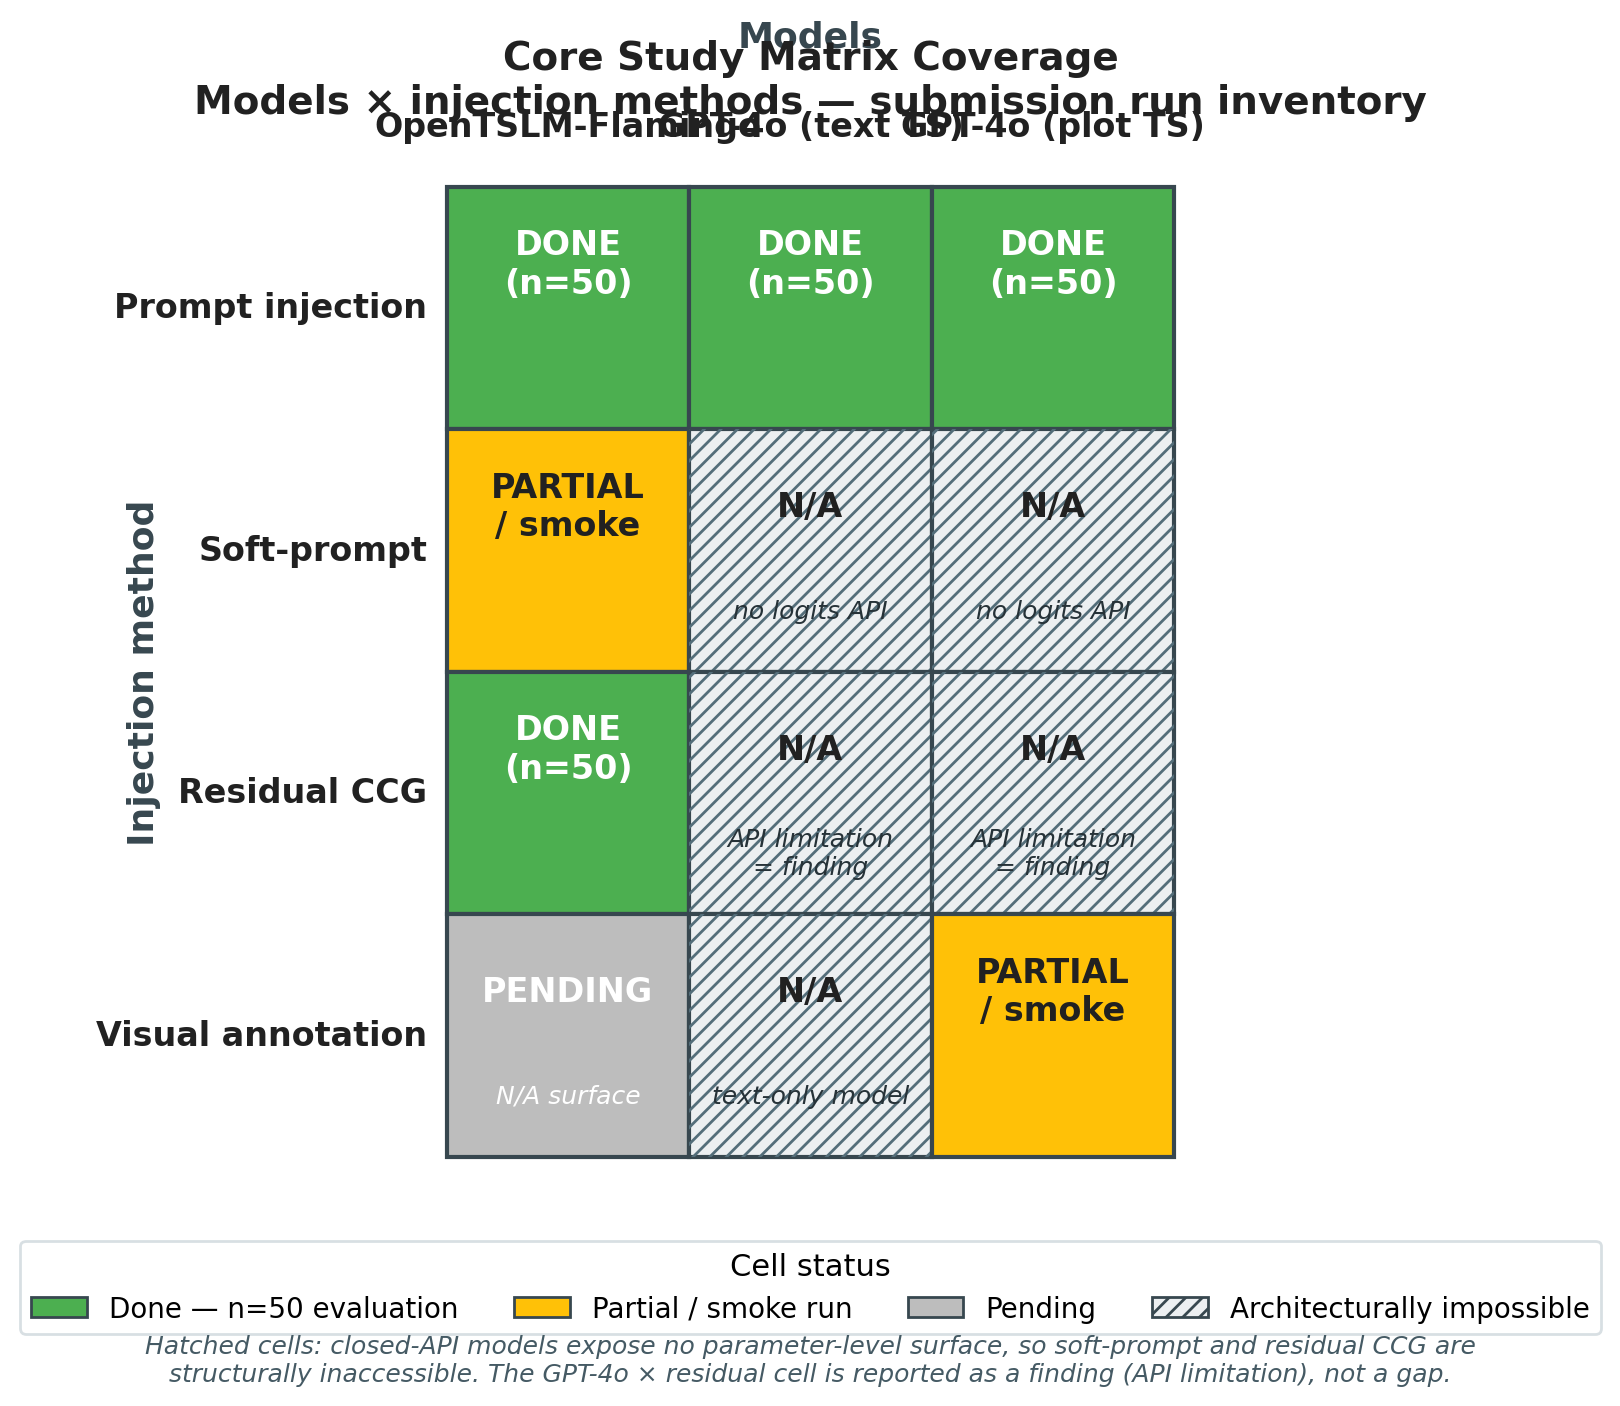
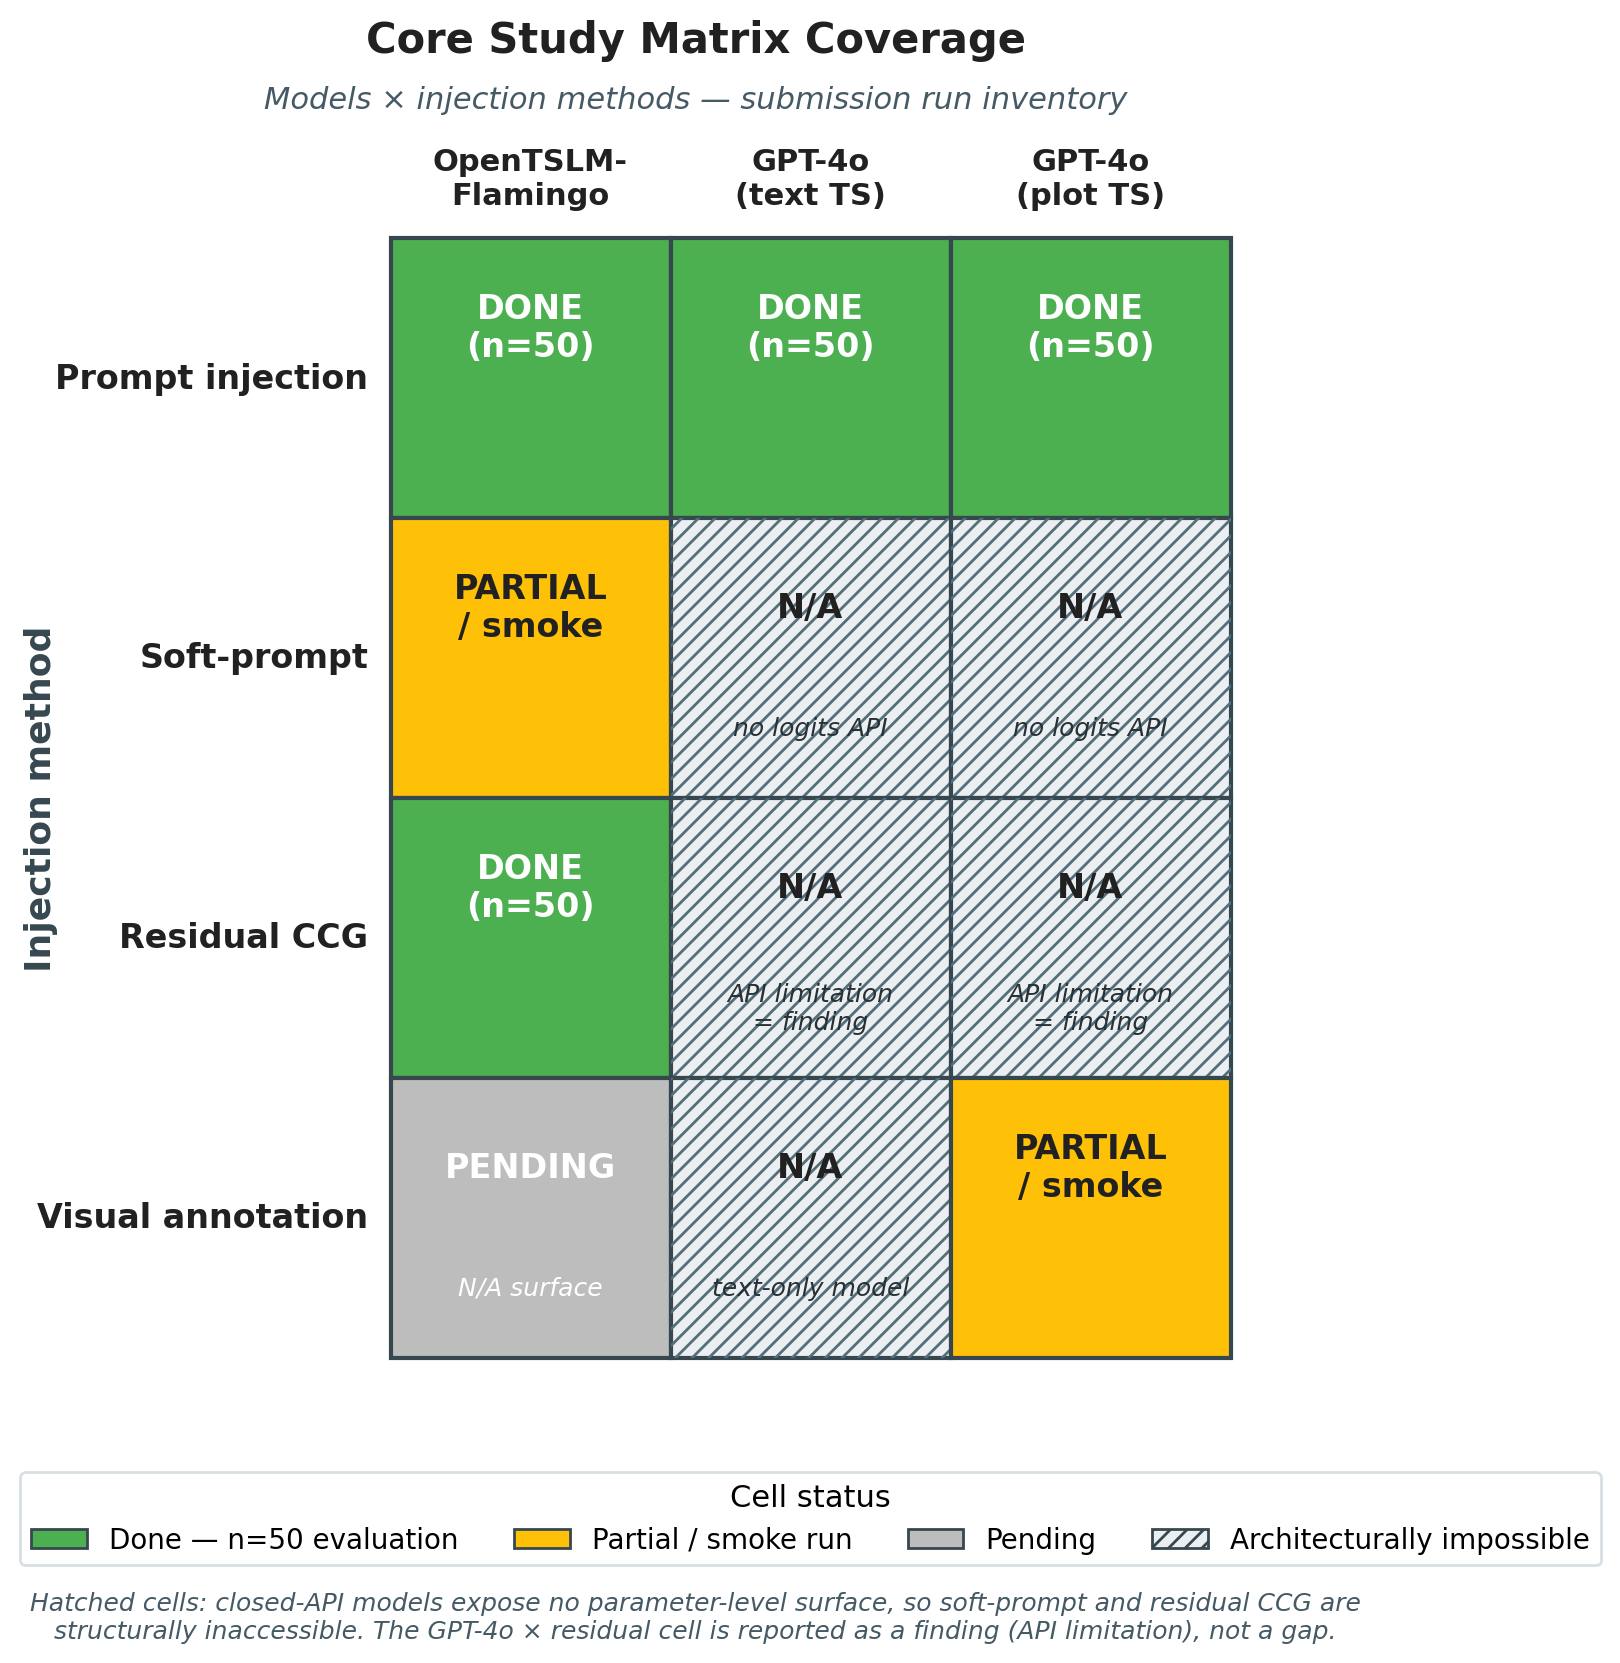
Fix figures after review for CCG Benchmark: Grounded Reasoning vs. Rationalization in Classifier-Conditioned TS-LLMs

Changed region(s): [[0.0309, 0.0, 0.8951, 0.8257], [0.0, 0.8563, 0.9877, 1.0], [0.0, 0.367, 0.0309, 0.5811]]

diff --git a/ccg-benchmark-grounded-reasoning-vs-rationalization-in-class/fig_002.py b/ccg-benchmark-grounded-reasoning-vs-rationalization-in-class/fig_002.py
@@ -30,22 +30,22 @@ LEAF_COLORS = {
     "reasoning_only_away":    "#F9A825",
 }
 
-fig, ax = plt.subplots(figsize=(16, 10), dpi=200)
-ax.set_xlim(0, 16)
-ax.set_ylim(0, 10)
+fig, ax = plt.subplots(figsize=(23, 11), dpi=200)
+ax.set_xlim(0, 23)
+ax.set_ylim(0, 11)
 ax.set_axis_off()
 ax.set_facecolor("white")
 fig.patch.set_facecolor("white")
 
 # ---------- Title ----------
 ax.text(
-    8, 9.55,
+    11.5, 10.55,
     "Factorized 8-Cell Rationale-Effect Taxonomy",
     ha="center", va="center",
     fontsize=18, fontweight="bold",
 )
 ax.text(
-    8, 9.10,
+    11.5, 10.05,
     "Three orthogonal axes from poc_rationale_effect_judge.py "
     "decompose into 8 named cells\n"
     "(cross-tabbed with the 5-regime labels: grounded / rationalizing / "
@@ -72,7 +72,7 @@ def node(x, y, w, h, label, fc, ec="black", fontsize=10.5, fontweight="normal", 
     )
 
 def arrow(x1, y1, x2, y2, color="#555555", label=None, label_offset=(0, 0),
-          label_color=None, label_bg=None, label_fontsize=9.5, label_weight="bold"):
+          label_color=None, label_bg=None, label_fontsize=9.0, label_weight="bold"):
     a = FancyArrowPatch(
         (x1, y1), (x2, y2),
         arrowstyle="-|>",
@@ -99,128 +99,123 @@ def arrow(x1, y1, x2, y2, color="#555555", label=None, label_offset=(0, 0),
         )
 
 # ---------- Layout coords ----------
-# Levels (y): root=8.1  L1=6.6  L2=5.0  leaves=3.0
-Y_ROOT = 8.1
-Y_L1   = 6.55
-Y_L2   = 4.95
-Y_LEAF = 2.85
+Y_ROOT = 9.05
+Y_L1   = 7.50
+Y_L2   = 5.85
+Y_LEAF = 3.55
 
-# Root node
-node(8, Y_ROOT, 4.8, 0.75,
+# Root node (center of the tree area, x=12)
+node(12, Y_ROOT, 5.0, 0.78,
      "Rationale effect of class signal\non a single generation",
      fc="#F2F2F2", ec="#222222", fontweight="bold", fontsize=11)
 
 # L1 — axis 1 split: answer_changed
-# Two branches:
-node(4, Y_L1, 4.2, 0.78,
+node(7, Y_L1, 4.4, 0.80,
      "answer_changed = NO\n(programmatic match)",
      fc=COL_AX1, ec="black", fontweight="bold", fontsize=10.5, txtcolor="white")
-node(12, Y_L1, 4.2, 0.78,
+node(17, Y_L1, 4.4, 0.80,
      "answer_changed = YES\n(programmatic match)",
      fc=COL_AX1, ec="black", fontweight="bold", fontsize=10.5, txtcolor="white")
 
-arrow(8, Y_ROOT - 0.38, 4, Y_L1 + 0.40, color=COL_AX1)
-arrow(8, Y_ROOT - 0.38, 12, Y_L1 + 0.40, color=COL_AX1)
-
-# Axis-1 callout
-ax.text(8, Y_L1 + 0.95, "Axis 1 · answer_changed  (programmatic)",
-        ha="center", va="center", fontsize=10, fontweight="bold",
-        color=COL_AX1)
+arrow(12, Y_ROOT - 0.39, 7, Y_L1 + 0.41, color=COL_AX1)
+arrow(12, Y_ROOT - 0.39, 17, Y_L1 + 0.41, color=COL_AX1)
 
 # L2 — axis 2 split: reasoning_changed under each L1 branch
-# Left (answer_changed = NO)
-node(2.1, Y_L2, 3.4, 0.72,
+node(4.5, Y_L2, 3.4, 0.74,
      "reasoning_changed = NO",
      fc=COL_AX2, ec="black", fontweight="bold", fontsize=10, txtcolor="white")
-node(5.9, Y_L2, 3.4, 0.72,
+node(9.5, Y_L2, 3.4, 0.74,
      "reasoning_changed = YES",
      fc=COL_AX2, ec="black", fontweight="bold", fontsize=10, txtcolor="white")
 
-arrow(4, Y_L1 - 0.40, 2.1, Y_L2 + 0.37, color=COL_AX2)
-arrow(4, Y_L1 - 0.40, 5.9, Y_L2 + 0.37, color=COL_AX2)
+arrow(7, Y_L1 - 0.41, 4.5, Y_L2 + 0.38, color=COL_AX2)
+arrow(7, Y_L1 - 0.41, 9.5, Y_L2 + 0.38, color=COL_AX2)
 
-# Right (answer_changed = YES)
-node(10.1, Y_L2, 3.4, 0.72,
+node(14.5, Y_L2, 3.4, 0.74,
      "reasoning_changed = NO",
      fc=COL_AX2, ec="black", fontweight="bold", fontsize=10, txtcolor="white")
-node(13.9, Y_L2, 3.4, 0.72,
+node(19.5, Y_L2, 3.4, 0.74,
      "reasoning_changed = YES",
      fc=COL_AX2, ec="black", fontweight="bold", fontsize=10, txtcolor="white")
 
-arrow(12, Y_L1 - 0.40, 10.1, Y_L2 + 0.37, color=COL_AX2)
-arrow(12, Y_L1 - 0.40, 13.9, Y_L2 + 0.37, color=COL_AX2)
+arrow(17, Y_L1 - 0.41, 14.5, Y_L2 + 0.38, color=COL_AX2)
+arrow(17, Y_L1 - 0.41, 19.5, Y_L2 + 0.38, color=COL_AX2)
 
-# Axis-2 callout
-ax.text(8, Y_L2 + 0.65, "Axis 2 · reasoning_changed  (LLM-judged)",
-        ha="center", va="center", fontsize=10, fontweight="bold",
-        color=COL_AX2)
+# ---------- Axis labels (left-margin row labels) ----------
+def axis_label(y, num, name, sub, color):
+    ax.text(
+        1.55, y,
+        f"AXIS {num}\n{name}\n{sub}",
+        ha="center", va="center",
+        fontsize=10, fontweight="bold", color=color,
+        bbox=dict(
+            boxstyle="round,pad=0.45",
+            fc="white", ec=color, lw=1.4,
+        ),
+    )
+
+# Place each axis label vertically centered between the parent level
+# and the child level it splits into — in the LEFT MARGIN so it does not
+# collide with any connecting arrow.
+axis_label((Y_ROOT + Y_L1) / 2, 1, "answer_changed", "(programmatic)",          COL_AX1)
+axis_label((Y_L1   + Y_L2) / 2, 2, "reasoning_changed", "(LLM-judged)",         COL_AX2)
+axis_label((Y_L2 + Y_LEAF) / 2, 3, "reasoning_direction",
+           "(LLM-judged,\nonly if reasoning_changed = YES)",                    COL_AX3)
 
 # ---------- Leaves ----------
-# 1. answer NO,  reasoning NO  → no_effect            (single leaf)
-# 2. answer NO,  reasoning YES → reasoning_only_{toward, lateral, away}
-# 3. answer YES, reasoning NO  → label_forcing        (single leaf)
-# 4. answer YES, reasoning YES → full_follow / knocked_off_lateral / knocked_off_away
-
-leaf_w = 2.05
-leaf_h = 0.95
+leaf_w = 1.95
+leaf_h = 1.05
 
 def leaf(x, y, name, subtitle):
     node(x, y, leaf_w, leaf_h, f"{name}\n{subtitle}",
-         fc=LEAF_COLORS[name], ec="black", fontweight="bold", fontsize=9.5)
+         fc=LEAF_COLORS[name], ec="black", fontweight="bold", fontsize=8.6)
 
-# Branch A: no_effect (single leaf, sits straight under "reasoning_changed = NO")
-leaf(2.1, Y_LEAF, "no_effect",
+# Branch A: no_effect (single leaf under left-NO L2)
+leaf(4.5, Y_LEAF, "no_effect",
      "answer unchanged\nreasoning unchanged")
-arrow(2.1, Y_L2 - 0.37, 2.1, Y_LEAF + 0.50, color="#555555")
+arrow(4.5, Y_L2 - 0.38, 4.5, Y_LEAF + 0.55, color="#555555")
 
-# Branch B: reasoning_only_{toward, lateral, away}
-# Place three leaves under x=5.9
-x_b = [4.5, 6.0, 7.6]
+# Branch B: reasoning_only_{toward, lateral, away}  (under x=9.5)
+x_b = [7.3, 9.5, 11.7]
 names_b = ["reasoning_only_toward", "reasoning_only_lateral", "reasoning_only_away"]
-subs_b  = ["answer unchanged\nreasoning ↗ toward signal",
-           "answer unchanged\nreasoning ↔ lateral",
-           "answer unchanged\nreasoning ↘ away from signal"]
+subs_b  = ["answer unchanged\nreasoning -> toward",
+           "answer unchanged\nreasoning <-> lateral",
+           "answer unchanged\nreasoning -> away"]
 dir_labels_b = ["toward", "lateral", "away"]
 for xi, n, s, dl in zip(x_b, names_b, subs_b, dir_labels_b):
     leaf(xi, Y_LEAF, n, s)
-    arrow(5.9, Y_L2 - 0.37, xi, Y_LEAF + 0.50,
+    arrow(9.5, Y_L2 - 0.38, xi, Y_LEAF + 0.55,
           color=COL_AX3, label=dl,
-          label_offset=(0.0, 0.05),
+          label_offset=(0.0, 0.0),
           label_bg="white", label_fontsize=8.5)
 
-# Branch C: label_forcing (single leaf)
-leaf(10.1, Y_LEAF, "label_forcing",
+# Branch C: label_forcing (single leaf under right-NO L2 at x=14.5)
+leaf(14.5, Y_LEAF, "label_forcing",
      "answer flipped\nreasoning unchanged")
-arrow(10.1, Y_L2 - 0.37, 10.1, Y_LEAF + 0.50, color="#555555")
+arrow(14.5, Y_L2 - 0.38, 14.5, Y_LEAF + 0.55, color="#555555")
 
-# Branch D: full_follow / knocked_off_lateral / knocked_off_away
-x_d = [12.5, 14.0, 15.6]
+# Branch D: full_follow / knocked_off_lateral / knocked_off_away  (under x=19.5)
+x_d = [17.3, 19.5, 21.7]
 names_d = ["full_follow", "knocked_off_lateral", "knocked_off_away"]
-subs_d  = ["answer flipped\nreasoning ↗ toward signal",
-           "answer flipped\nreasoning ↔ lateral",
-           "answer flipped\nreasoning ↘ away from signal"]
+subs_d  = ["answer flipped\nreasoning -> toward",
+           "answer flipped\nreasoning <-> lateral",
+           "answer flipped\nreasoning -> away"]
 dir_labels_d = ["toward", "lateral", "away"]
 for xi, n, s, dl in zip(x_d, names_d, subs_d, dir_labels_d):
     leaf(xi, Y_LEAF, n, s)
-    arrow(13.9, Y_L2 - 0.37, xi, Y_LEAF + 0.50,
+    arrow(19.5, Y_L2 - 0.38, xi, Y_LEAF + 0.55,
           color=COL_AX3, label=dl,
-          label_offset=(0.0, 0.05),
+          label_offset=(0.0, 0.0),
           label_bg="white", label_fontsize=8.5)
 
-# Axis-3 callout (only applies on the YES-reasoning branches)
-ax.text(8, Y_LEAF + 1.05,
-        "Axis 3 · reasoning_direction  (LLM-judged · only when reasoning_changed = YES)",
-        ha="center", va="center", fontsize=10, fontweight="bold", color=COL_AX3)
-
 # ---------- Bottom: legend + caption ----------
-# Axis legend
 legend_handles = [
     mpatches.Patch(facecolor=COL_AX1, edgecolor="black",
-                   label="Axis 1 · answer_changed  (programmatic)"),
+                   label="Axis 1 - answer_changed  (programmatic)"),
     mpatches.Patch(facecolor=COL_AX2, edgecolor="black",
-                   label="Axis 2 · reasoning_changed  (LLM-judged)"),
+                   label="Axis 2 - reasoning_changed  (LLM-judged)"),
     mpatches.Patch(facecolor=COL_AX3, edgecolor="black",
-                   label="Axis 3 · reasoning_direction  (LLM-judged: toward / lateral / away)"),
+                   label="Axis 3 - reasoning_direction  (LLM-judged: toward / lateral / away)"),
 ]
 leg = ax.legend(
     handles=legend_handles,
@@ -233,17 +228,17 @@ leg = ax.legend(
 
 # Caption
 ax.text(
-    8, 0.95,
+    11.5, 1.30,
     "The three axes are orthogonal: programmatic answer-flip detection "
     "is decoupled from the LLM-judged reasoning-change and direction calls.\n"
     "8 cells arise because reasoning_direction is only defined when "
-    "reasoning_changed = YES (2 × [1 + 3] = 8).  Cross-tabs with the "
-    "5-regime labels are how the page reads each cell.",
+    "reasoning_changed = YES  (2 x [1 + 3] = 8).  "
+    "Cross-tabs with the 5-regime labels are how the page reads each cell.",
     ha="center", va="center",
-    fontsize=9.5, color="#333333",
+    fontsize=10, color="#333333",
 )
 
-plt.tight_layout(rect=[0, 0.05, 1, 0.96])
+plt.tight_layout(rect=[0, 0.05, 1, 0.97])
 plt.savefig(OUT, dpi=200, bbox_inches="tight", facecolor="white")
 plt.close(fig)
 print(f"Saved: {OUT}")

diff --git a/ccg-benchmark-grounded-reasoning-vs-rationalization-in-class/fig_004.py b/ccg-benchmark-grounded-reasoning-vs-rationalization-in-class/fig_004.py
@@ -8,7 +8,7 @@ import matplotlib.patches as mpatches
 from matplotlib.patches import Rectangle
 
 # --- Matrix definition -------------------------------------------------------
-columns = ["OpenTSLM-Flamingo", "GPT-4o (text TS)", "GPT-4o (plot TS)"]
+columns = ["OpenTSLM-\nFlamingo", "GPT-4o\n(text TS)", "GPT-4o\n(plot TS)"]
 rows = ["Prompt injection", "Soft-prompt", "Residual CCG", "Visual annotation"]
 
 # Status codes:
@@ -47,7 +47,7 @@ HATCH_COLOR = "#546E7A"
 n_rows = len(rows)
 n_cols = len(columns)
 
-fig, ax = plt.subplots(figsize=(11.5, 7.0), dpi=200)
+fig, ax = plt.subplots(figsize=(11.5, 8.2), dpi=200)
 fig.patch.set_facecolor("white")
 ax.set_facecolor("white")
 
@@ -118,10 +118,10 @@ ax.set_aspect("equal")
 for c, col_name in enumerate(columns):
     ax.text(
         left_pad + c * cell_w + cell_w / 2,
-        top_pad + n_rows * cell_h + 0.18,
+        top_pad + n_rows * cell_h + 0.10,
         col_name,
         ha="center", va="bottom",
-        fontsize=12, fontweight="bold",
+        fontsize=11, fontweight="bold",
         color="#212121",
     )
 
@@ -136,14 +136,7 @@ for r, row_name in enumerate(rows):
         color="#212121",
     )
 
-# Group label headers
-ax.text(
-    left_pad + (n_cols * cell_w) / 2,
-    top_pad + n_rows * cell_h + 0.55,
-    "Models",
-    ha="center", va="bottom",
-    fontsize=13, fontweight="bold", color="#37474F",
-)
+# Group axis label (left side only — "Models" is stated in the title)
 ax.text(
     left_pad - 1.25,
     top_pad + (n_rows * cell_h) / 2,
@@ -153,11 +146,17 @@ ax.text(
     rotation=90,
 )
 
-# Title
-ax.set_title(
-    "Core Study Matrix Coverage\n"
+# Title — placed via fig.suptitle for clean separation from column headers
+fig.suptitle(
+    "Core Study Matrix Coverage",
+    fontsize=15, fontweight="bold", color="#212121",
+    y=0.985,
+)
+fig.text(
+    0.5, 0.945,
     "Models × injection methods — submission run inventory",
-    fontsize=14, fontweight="bold", pad=22, color="#212121",
+    ha="center", va="top",
+    fontsize=11, style="italic", color="#455A64",
 )
 
 ax.set_xticks([])
@@ -195,7 +194,7 @@ fig.text(
     fontsize=9, style="italic", color="#455A64",
 )
 
-plt.tight_layout()
+plt.subplots_adjust(top=0.86, bottom=0.16, left=0.13, right=0.97)
 out_path = "/home/wangni/notion-figures/ccg-benchmark-grounded-reasoning-vs-rationalization-in-class/fig_004.png"
 plt.savefig(out_path, dpi=200, bbox_inches="tight", facecolor="white")
 plt.close(fig)
